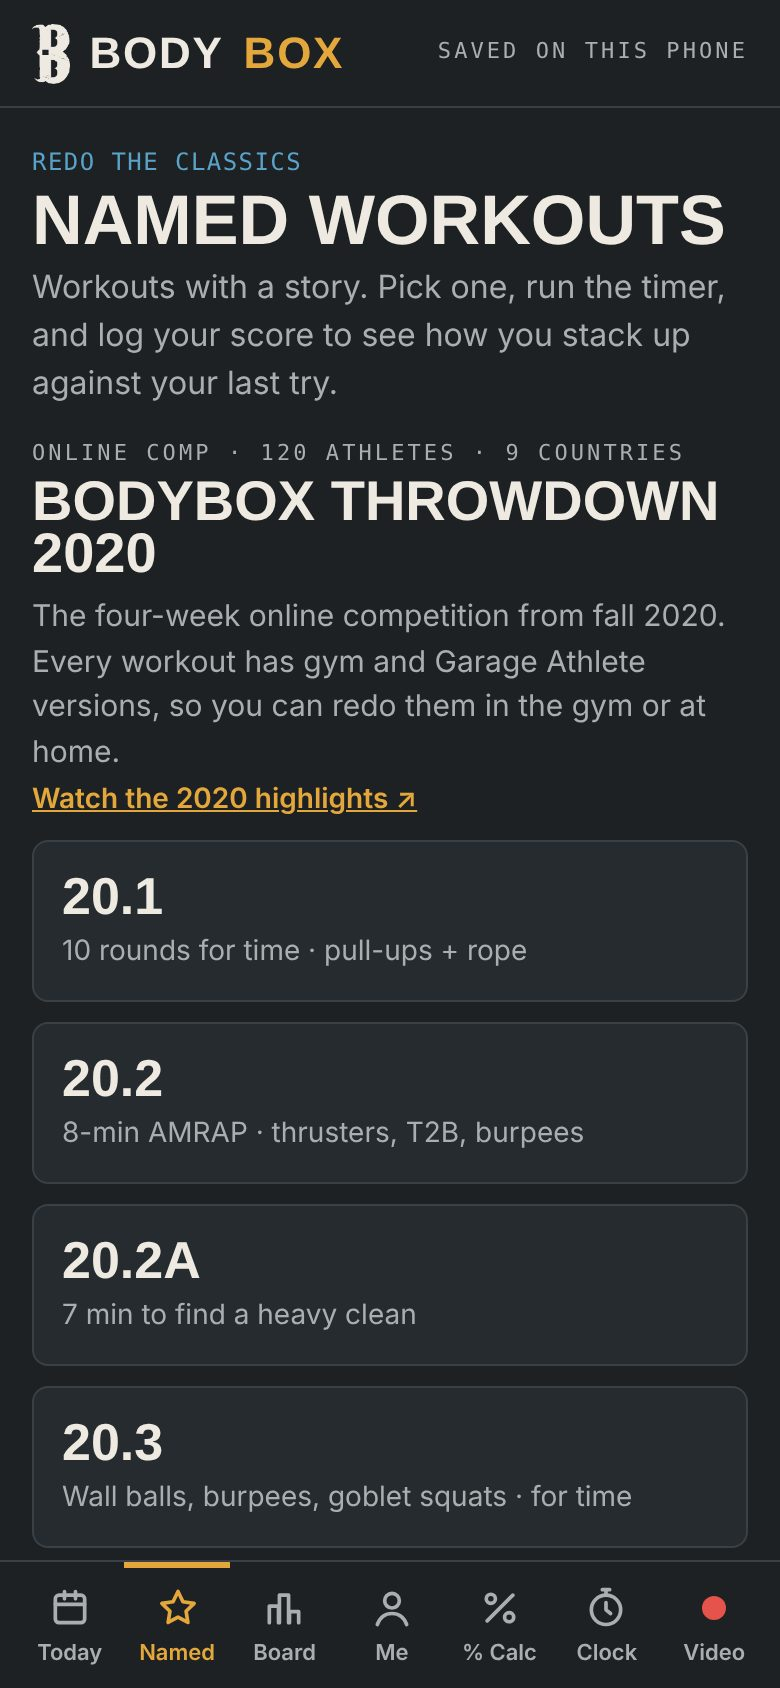
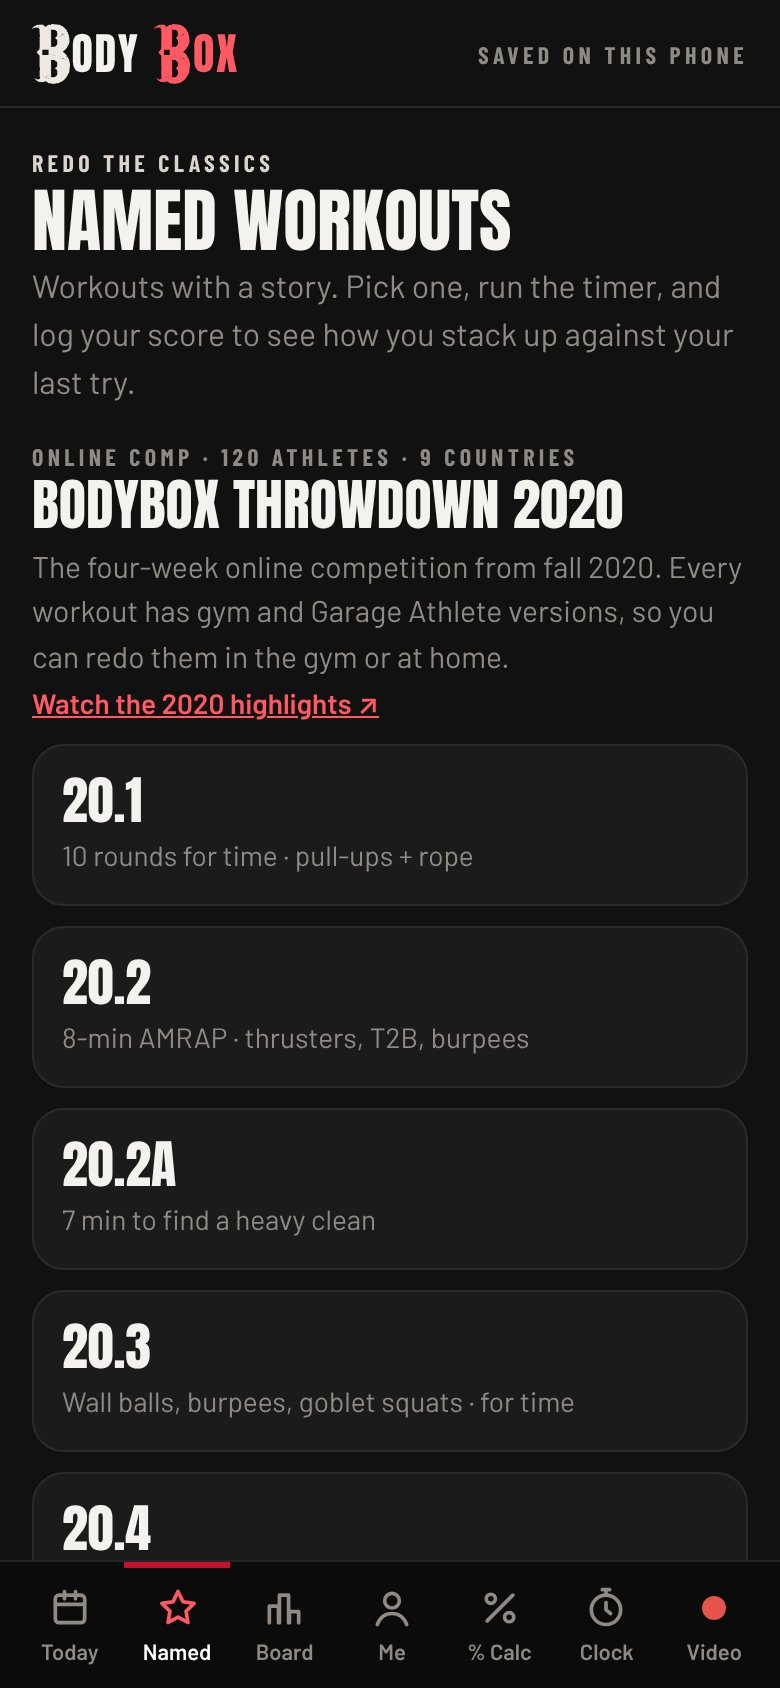
Website: all app screens retaken in the new look with real fonts
Claude-Session: https://claude.ai/code/session_017vtccbFEVB3hDaqVSYQ9np

Changed region(s): [[0.0, 0.0, 1.0, 1.0], [0.5846, 0.0, 0.9538, 0.0616]]

diff --git a/index.html b/index.html
@@ -909,10 +909,10 @@ a.btn{min-height:56px;font-size:19px;padding:0 30px}
       <figure><img src="img/app/challenges.jpg" alt="App Challenges screen: a head-to-head challenge on Throwdown 20.1, a 2K row in progress and a finished 100 burpees with the winner starred" width="780" height="1688" loading="lazy"><figcaption><b>Challenges</b><span>Call someone out on a workout or a lift. You both log it and the app crowns the winner. Example names shown.</span></figcaption></figure>
       <figure><img src="img/app/goodjob.jpg" alt="App leaderboard for a sumo deadlift with Good job and Challenge buttons on each score" width="780" height="1688" loading="lazy"><figcaption><b>Good job</b><span>Hype your teammates' scores on the board, or challenge them from there.</span></figcaption></figure>
       <figure><img src="img/app/progress.jpg" alt="App progress screen comparing Phase 5.0 to Phase 5.1 with gains on each lift" width="780" height="1688" loading="lazy"><figcaption><b>Your progress</b><span>Last phase vs this phase: every lift, how much you went up, and how often you trained.</span></figcaption></figure>
-      <figure><img src="img/app/today.jpg" alt="App Today screen with the daily announcement" width="780" height="1688" loading="lazy"><figcaption><b>Today</b><span>The daily announcement, then your training for the day.</span></figcaption></figure>
-      <figure><img src="img/app/timer.jpg" alt="App workout timer counting down an EMOM" width="780" height="1688" loading="lazy"><figcaption><b>Workout timer</b><span>Every workout's clock is set for you, with a :10 countdown like the gym.</span></figcaption></figure>
+      <figure><img src="img/app/today.jpg" alt="App Today screen: this week's days, the program tabs, the day's workout and the Start timer button" width="780" height="1688" loading="lazy"><figcaption><b>Today</b><span>The daily announcement, then your training for the day, with the timer set.</span></figcaption></figure>
+      <figure><img src="img/app/timer.jpg" alt="App workout timer running a 6 minute AMRAP" width="780" height="1688" loading="lazy"><figcaption><b>Workout timer</b><span>Every workout's clock is set for you, with a :10 countdown like the gym.</span></figcaption></figure>
       <figure><img src="img/app/clock.jpg" alt="App Clock tab for building a custom timer" width="780" height="1688" loading="lazy"><figcaption><b>Clock</b><span>Build any timer: for time, AMRAP, EMOM, Tabata or intervals.</span></figcaption></figure>
-      <figure><img src="img/app/calc.jpg" alt="App percentage calculator showing 75 percent of a 295 pound back squat with plates" width="780" height="1688" loading="lazy"><figcaption><b>% Calculator</b><span>Weights from your maxes, with the plates for each side.</span></figcaption></figure>
+      <figure><img src="img/app/calc.jpg" alt="App percentage calculator showing 70 percent of a 325 pound back squat with the plates for each side" width="780" height="1688" loading="lazy"><figcaption><b>% Calculator</b><span>Weights from your maxes, with the plates for each side.</span></figcaption></figure>
       <figure><img src="img/app/numbers.jpg" alt="App My Numbers screen with a back squat progress chart" width="780" height="1688" loading="lazy"><figcaption><b>My Numbers</b><span>Track your lifts and watch them climb. Example numbers shown.</span></figcaption></figure>
       <figure><img src="img/app/named.jpg" alt="App Named Workouts list with the BodyBox Throwdown 2020 workouts" width="780" height="1688" loading="lazy"><figcaption><b>Named workouts</b><span>Redo the Throwdown 2020 workouts and beat your last score.</span></figcaption></figure>
     </div>
